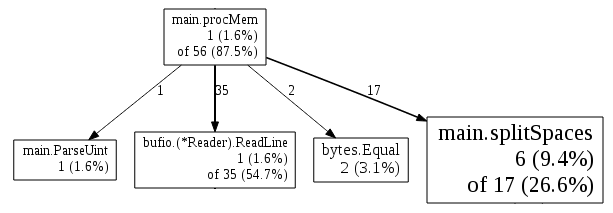
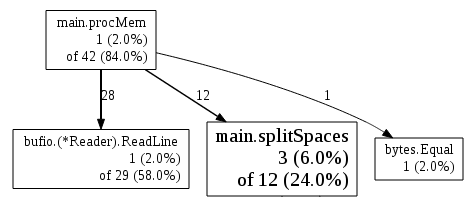
post: orw: done most of cpu stuff

Changed region(s): [[0.0, 0.029, 1.0, 0.9855], [0.6793, 0.4348, 0.7089, 0.4638]]

diff --git a/_posts/2013-01-05-optimizing-real-world-go.md b/_posts/2013-01-05-optimizing-real-world-go.md
@@ -250,7 +250,7 @@ Cool, so 93% of our time is spent in `procMem` where we total each
 process's memory usage, and most of that is in turn spent in the
 `splitSpaces` utility function.  Looks like a good place to start.
 
-### splitSpaces
+### Digging in
 
 Each line in `/proc/$PID/smaps` has several columns with an arbitrary
 number of spaces between them.  Neither the bytes or the strings
@@ -393,8 +393,59 @@ I was on a roll at that point, so that second commit also removes a
 O(n) string search and replaces it with an O(1) length check for
 whether an smaps line should be skipped.
 
-The result?
+The results?
 
-<center><img src="/images/pprof_3.png" width="613" height="213" /></center>
+<center><img src="/images/pprof_3.png" width="474" height="207" /></center>
 
-Much better!
+    0.24user 0.28system 0:00.17elapsed 292%CPU (0avgtext+0avgdata 5048maxresident)k
+    0inputs+8outputs (0major+941minor)pagefaults 0swaps
+
+    real	0m0.186s
+    user	0m0.246s
+    sys	0m0.285s
+
+Much better! We've gotten more than twice as fast.  The last thing
+left to do is see if we can improve `splitSpaces`.  I played around
+with that for a while, even creating a
+[micro-benchmark](https://github.com/bpowers/psm/commit/6f8835ee9ab2516724a83e2de8956dcbea6ad1cf),
+but in this case the benchmark ended up not being very useful.  It was
+noisy, and techniques that improved overall runtime weren't
+necessarily reflected in the benchmark results.  The current version is:
+
+{% highlight go %}
+func splitSpaces(b []byte) [][]byte {
+	// most lines in smaps have the form "Swap: 4 kB", so
+	// preallocate the slice's array appropriately.
+	res := make([][]byte, 0, 3)
+	start := 0
+	for i := 0; i < len(b)-1; i++ {
+		if b[i] == ' ' {
+			start = i + 1
+		} else if b[i+1] == ' ' {
+			res = append(res, b[start:i+1])
+			start = i + 1
+		}
+	}
+	if start != len(b) && b[start] != ' ' {
+		res = append(res, b[start:])
+	}
+	return res
+}
+{% endhighlight %}
+
+And is ~ 9% faster than the the last runtime.
+
+<center><img src="/images/pprof_4.png" width="487" height="213" /></center>
+
+    0.26user 0.25system 0:00.16elapsed 319%CPU (0avgtext+0avgdata 5164maxresident)k
+    0inputs+8outputs (0major+906minor)pagefaults 0swaps
+
+    real	0m0.170s
+    user	0m0.266s
+    sys	0m0.258s
+
+## Memory usage
+
+Okay, what about memory usage?
+
+## Wrapping up
